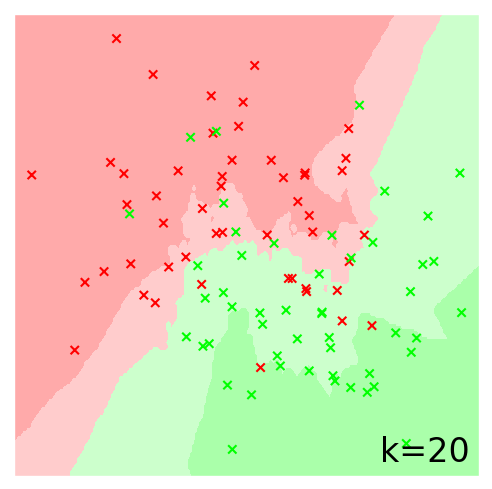
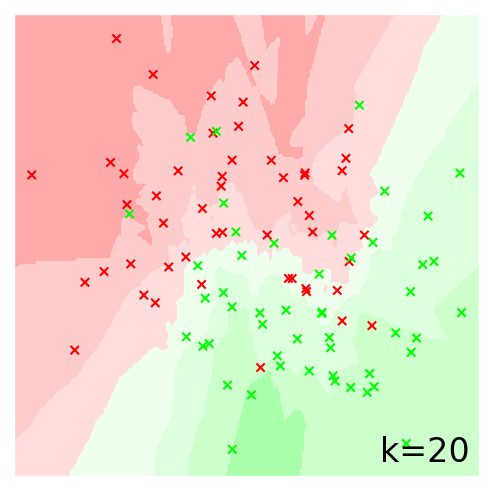
Improved visualizations for k changing showcase

diff --git a/side/3D-brain-visualization-test.py b/side/3D-brain-visualization-test.py
@@ -3,19 +3,17 @@ import matplotlib.pyplot as plt
 import time
 from matplotlib import style
 from matplotlib.colors import ListedColormap
-from matplotlib import cm
+from mpl_toolkits.mplot3d import Axes3D
 from sklearn.model_selection import train_test_split
 from sklearn.preprocessing import StandardScaler
 from sklearn.datasets import make_classification
 from sklearn.neighbors import KNeighborsClassifier
 
-style.use('ggplot')
-
 
 class Brain:
 
 	def __init__(self):
-		k = 20
+		k = 3
 		self.clf = KNeighborsClassifier(k)
 		self.X = np.array([])
 		self.y = np.array([])
@@ -29,7 +27,6 @@ class Brain:
 
 		# add new data
 		for X_entry in X_new:
-			print(X_entry)
 			self.X.append([X_entry[0], X_entry[1], X_entry[2]])
 
 		for y_entry in y_new:
@@ -67,28 +64,38 @@ class Brain:
 
 		# plot setup
 		plt.figure(figsize=(6,6))
-		cm = ListedColormap(["#FFAAAA", "#FFCCCC", "#CCFFCC", "#AAFFAA"])
+		cm = ListedColormap(["#FFA0A0", "#FFB8B8", "#FFB0B0", "#FFC8C8", "#FFC0C0", "#C0FFC0", "#C8FFC8", "#B0FFB0", "#B8FFB8", "#A0FFA0"])
 		cm_bold = ListedColormap(["#FF0000", "#00FF00"])
 		ax = plt.subplot(1, 1, 1, projection="3d")
 
+		print("Organized data and plot in {}s".format(round(time.time() - start_time,5)))
+
+		start_time = time.time()
+
 		# get predictions
-		self.V = self.clf.predict_proba(np.c_[xx.ravel(), yy.ravel()])[:, 1]
+		self.V = self.clf.predict_proba(np.c_[xx.ravel(), yy.ravel(), zz.ravel()])[:, 1]
 		self.V = self.V.reshape(xx.shape)
 
-		print(self.V)
+		print("Created predictions in {}s".format(round(time.time() - start_time,5)))
 
-		# plot Z as 3d contour
-		ax.plot_surface(self.V)
+		start_time = time.time()
+
+		# plot contours
+		V_X = (self.V[:, 0])
+		V_Y = (self.V[:, 1])
+		V_Z = (self.V[:, 2])
+
+		ax.contourf(V_X, V_Y, V_Z, zdir="z", cmap=cm) # DOESN'T WORK
 
 		# plot X as scatter
-		ax.scatter(self.X[:, 0], self.X[:, 1], c=self.y, cmap=cm_bold, marker="x")
-		ax.set_xlim(xx.min(), xx.max())
-		ax.set_ylim(yy.min(), yy.max())
-		ax.set_xticks(())
-		ax.set_yticks(())
+		ax.scatter(self.X[:, 0], self.X[:, 1], self.X[:, 2], c=self.y, cmap=cm_bold, marker="x")
 
-		end_time = time.time() - start_time
-		print("Prepared visualization in {}s".format(round(end_time,5)))
+		# set labels
+		ax.set_xlabel("X")
+		ax.set_ylabel("Y")
+		ax.set_zlabel("Z")
+
+		print("Prepared Visualization in {}s".format(round(time.time() - start_time,5)))
 
 		# show graph
 		plt.show()
@@ -96,7 +103,7 @@ class Brain:
 
 brain = Brain()
 
-X_new, y_new = make_classification(n_features=3, n_redundant=0, n_informative=3, random_state=1, n_clusters_per_class=1)
+X_new, y_new = make_classification(n_features=3, n_redundant=0, n_informative=3, random_state=1, n_clusters_per_class=1, n_samples=20)
 brain.addData(X_new, y_new)
 
 brain.learn()

diff --git a/brain.py b/brain.py
@@ -14,14 +14,14 @@ style.use('ggplot')
 class Brain:
 
 	def __init__(self):
-		self.k = 20
+		self.k = 15
 		self.clf = KNeighborsClassifier(self.k)
 		self.X = np.array([])
 		self.y = np.array([])
 
 		print("Brain inititiated")
 
-	def addData(self, X_new, y_new):
+	def add_data(self, X_new, y_new):
 		# turn into list
 		self.X = self.X.tolist()
 		self.y = self.y.tolist()
@@ -64,7 +64,7 @@ class Brain:
 
 		# plot setup
 		plt.figure(figsize=(6,6))
-		cm_list = ["#FFAAAA", "#FFCCCC", "#CCFFCC", "#AAFFAA"]
+		cm_list = "#FFA0A0 #FFB8B8 #FFB0B0 #FFC8C8 #FFC0C0 #D0FFD0 #D8FFD8 #C0FFC0 #C8FFC8 #B0FFB0".split()
 		cm = ListedColormap(cm_list)
 		cm_bold = ListedColormap(["#FF0000", "#00FF00"])
 		ax = plt.subplot(1, 1, 1)
@@ -82,10 +82,11 @@ class Brain:
 		ax.set_ylim(yy.min(), yy.max())
 		ax.set_xticks(())
 		ax.set_yticks(())
-		ax.text(xx.max() - 0.1, yy.min() + 0.1, "k={}".format(self.k), size=24, horizontalalignment='right')
+		ax.text(xx.min() + 0.1, yy.min() + 0.1, "n_samples={}".format(len(self.y)), size=12, horizontalalignment='left')
+		ax.text(xx.max() - 0.1, yy.min() + 0.1, "k={}".format(self.k), size=12, horizontalalignment='right')
 
 		end_time = time.time() - start_time
-		print("Prepared visualization in {}s".format(round(end_time,5)))		
+		print("Prepared visualization in {}s".format(round(end_time,5)))
 
 		plt.savefig("media/brain-visualization-example-k={}.png".format(self.k), bbox_inches="tight")
 
@@ -96,7 +97,7 @@ class Brain:
 brain = Brain()
 
 X_new, y_new = make_moons(n_samples=100, noise=0.5, random_state=2)
-brain.addData(X_new, y_new)
+brain.add_data(X_new, y_new)
 
 brain.learn()
 brain.visualize()
